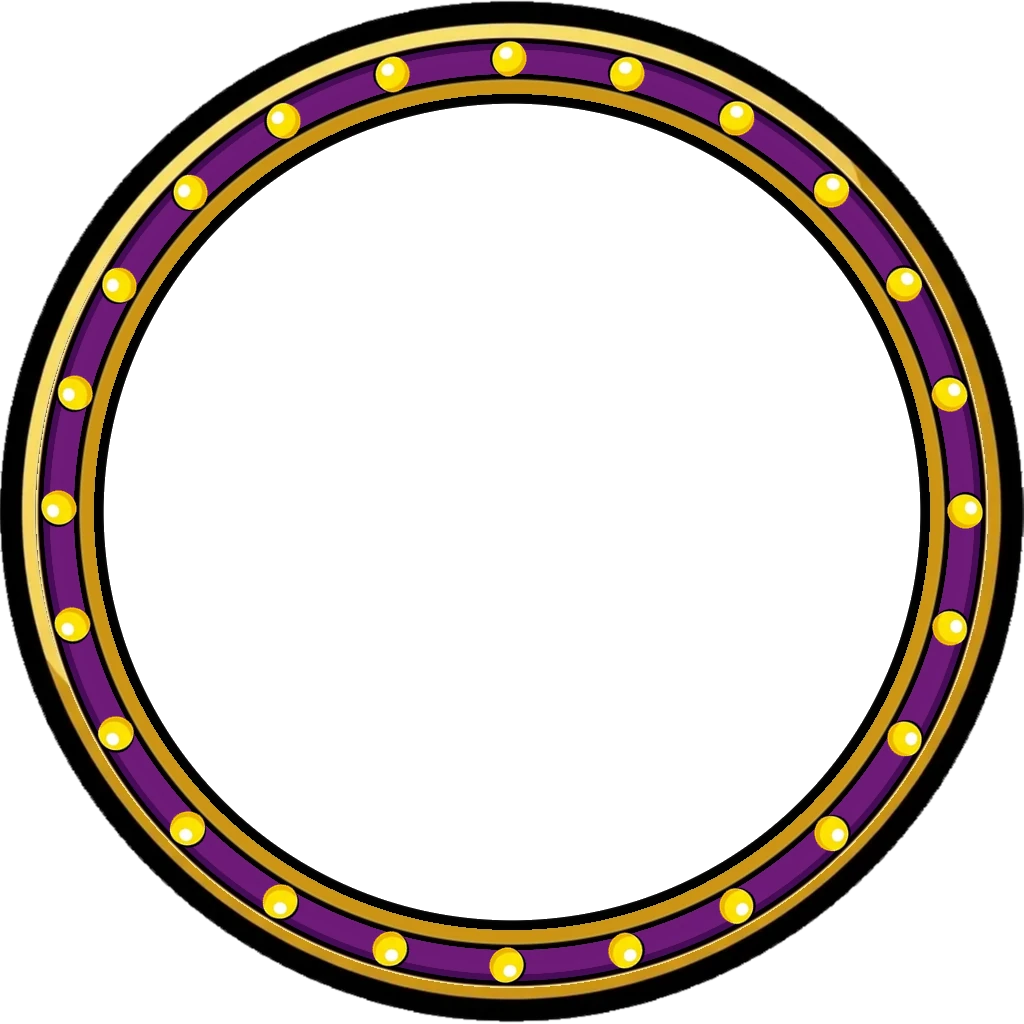
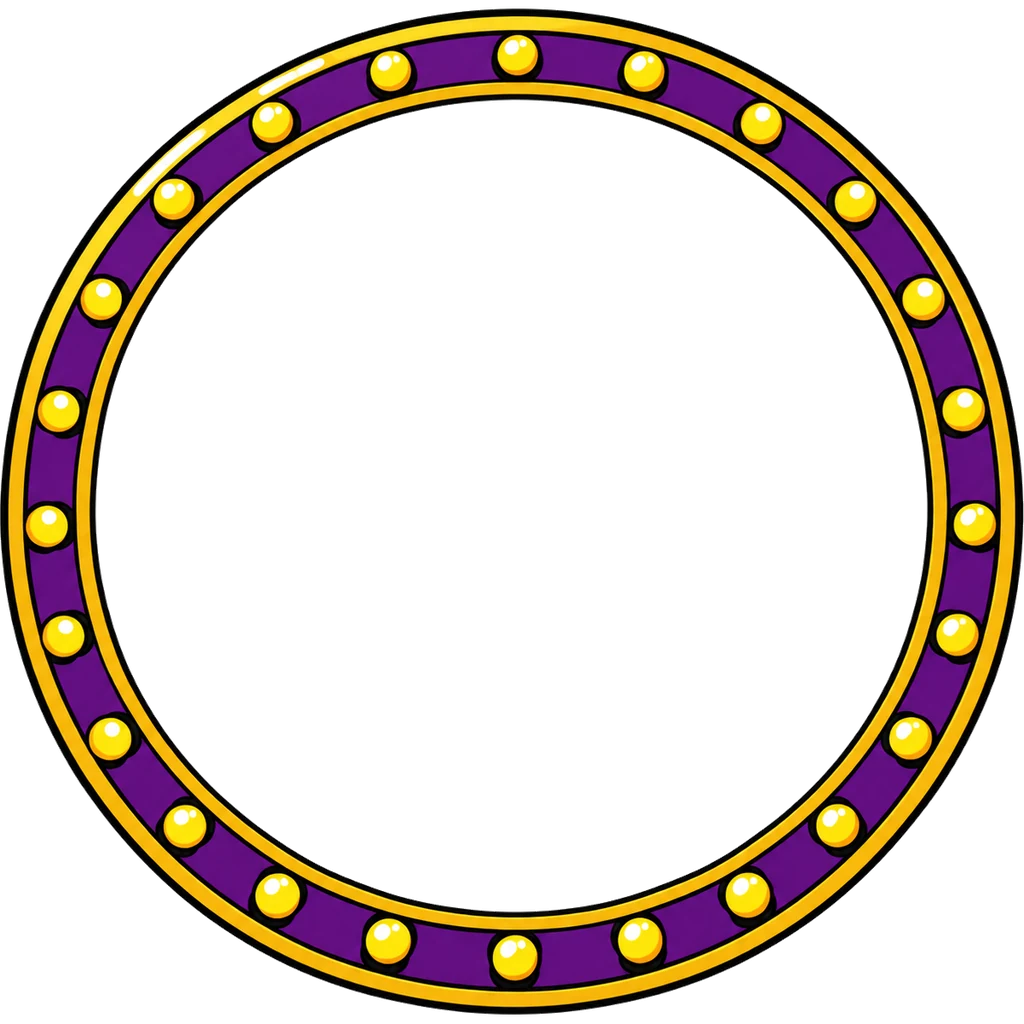
feat(wheel): the painted thin rim + chase lights cut from its own bulbs

Changed region(s): [[0.0, 0.0, 1.0, 1.0]]

diff --git a/src/components/wheel/DailyWheel.css b/src/components/wheel/DailyWheel.css
@@ -89,10 +89,11 @@
   height: var(--wd);
   container-type: size;
 }
-/* the THIN painted RIM is the whole wheel box; its open centre is 0.797 of its half-width, so the code-exact FACE
-   (face.svg: disc = 0.918 of its box) sits in a rotor box of 0.805 / 0.918 = 87.6% of the wheel (a hair under the rim) */
+/* the THIN painted RIM (ChatGPT, oct27) is the whole wheel box; its hand-drawn opening runs 0.779–0.818 of its
+   half-width, so the code-exact FACE (face.svg: disc = 0.918 of its box) reaches 0.825 — a rotor box of 0.825 / 0.918 =
+   89.9% of the wheel — and tucks under the rim all the way round */
 .dw-face, .dw-rim, .dw-lit { position: absolute; inset: 0; width: 100%; height: 100%; }
-.dw-rotor { position: absolute; inset: 6.2%; transform: rotate(0deg); container-type: size; }
+.dw-rotor { position: absolute; inset: 5.05%; transform: rotate(0deg); container-type: size; }
 .dw-face, .dw-rim, .dw-lit { pointer-events: none; user-select: none; }
 /* the chase lights: two lit-bulb sets over the rim, dark at rest (the spin + the landing blink them, WAAPI opacity) */
 .dw-lit { opacity: 0; }

diff --git a/src/components/wheel/DailyWheel.jsx b/src/components/wheel/DailyWheel.jsx
@@ -13,7 +13,7 @@
 //   ODDS — the published table, one tap away (the server's own weights).
 //   AD SPIN — behind WHEEL_AD_ON (client) AND the server's ad_on; OFF until rewarded ads are approved.
 // THE JACKPOT PASS (oct27, Andy: "the wheel is so fat and the content is so small … nothing special with animations"):
-//   a THIN rim (public/wheel/rim.webp, rebuilt from the painted rim's own ring + bulbs) so the face is ~88% of the wheel,
+//   a THIN painted rim (public/wheel/rim.webp; its lit bulbs cut from the same painting) so the face is ~90% of the wheel,
 //   the prize art twice the size and every wedge NAMED round its outer band; the spin runs the CHASE LIGHTS (two
 //   lit-bulb overlays flipping on every peg — baked off the same plan as the flapper, so they slow down with the
 //   wheel) and the landing is a jackpot: the winning wedge flashes, every bulb blinks, the wheel shakes, the prize
